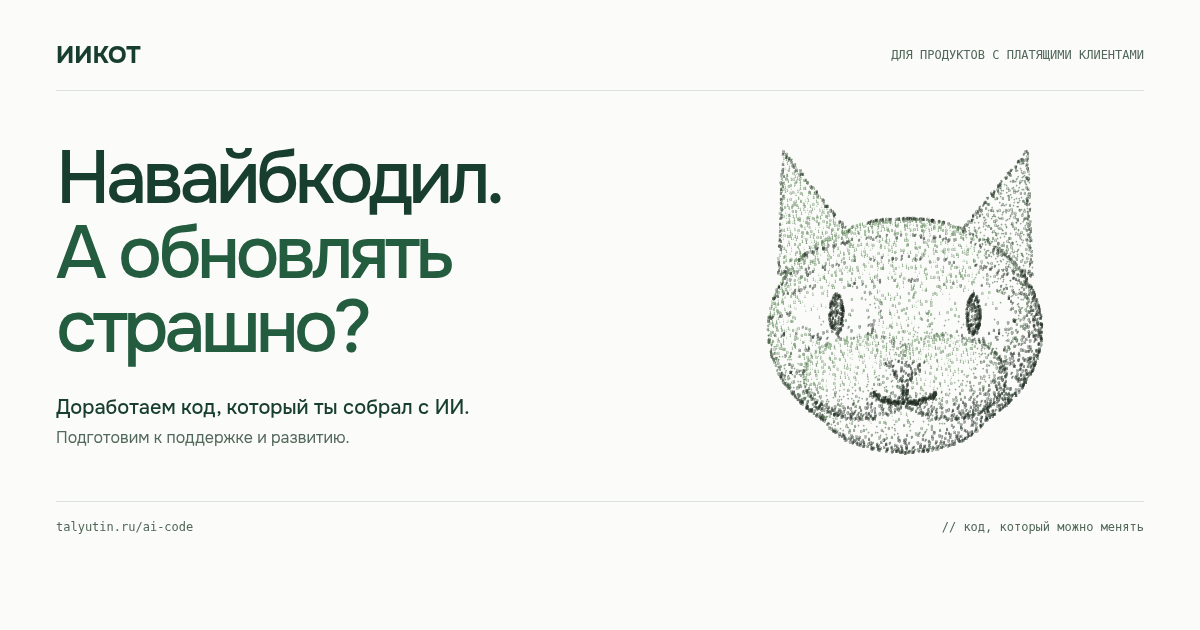
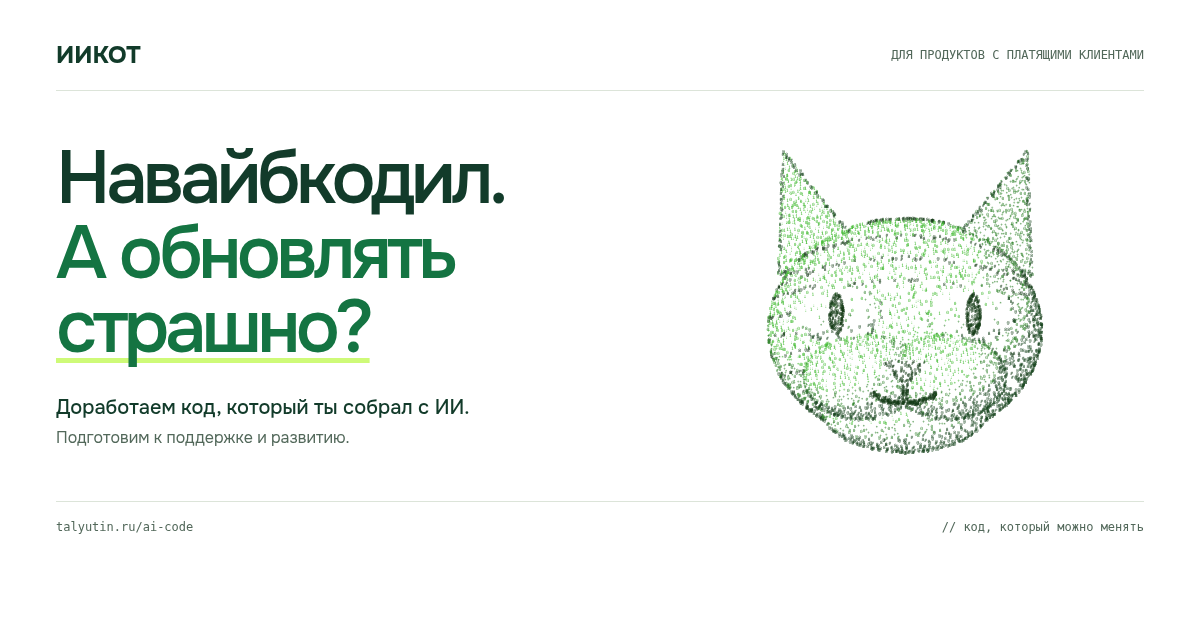
Refine IIKOT accents, spacing and footer composition

diff --git a/ownsite/public/ai-code/styles.css b/ownsite/public/ai-code/styles.css
@@ -7,14 +7,14 @@
 }
 :root {
   color-scheme: light;
-  --paper: #fbfcf9;
+  --paper: #ffffff;
   --white: #fff;
-  --ink: #173e2e;
+  --ink: #123b2a;
   --muted: #52685a;
-  --green: #245c40;
-  --accent: #c1ee84;
-  --line: #dce4d9;
-  --wash: #f0f4ec;
+  --green: #147442;
+  --accent: #cefa78;
+  --line: #d7e6d9;
+  --wash: #eff9e9;
   --gutter: clamp(24px, 5.55vw, 88px);
   --ease: cubic-bezier(.2,.75,.25,1);
   --mono: 'SFMono-Regular', Consolas, 'Liberation Mono', monospace;
@@ -28,10 +28,10 @@ button, summary, a { -webkit-tap-highlight-color: transparent; }
 a:focus-visible, summary:focus-visible { outline: 2px solid var(--green); outline-offset: 6px; }
 a:focus-visible.button { outline-offset: 5px; outline-color: var(--green); }
 h1, h2, h3, p, figure { margin: 0; }
-h1, h2, h3 { font-weight: 500; }
+h1, h2, h3 { font-weight: 550; }
 h1, h2 { letter-spacing: -.06em; text-wrap: balance; }
 p + p { margin-top: 16px; }
-section { position: relative; max-width: 1600px; margin-inline: auto; padding: 100px var(--gutter); border-bottom: 1px solid var(--line); }
+section { position: relative; max-width: 1600px; margin-inline: auto; padding: 88px var(--gutter); border-bottom: 1px solid var(--line); }
 section:not(.hero) { display: grid; grid-template-columns: minmax(140px, 1fr) minmax(0, 4fr); column-gap: 36px; }
 .section-head { display: contents; }
 .eyebrow { font: 500 11px/1.5 var(--mono); letter-spacing: .09em; text-transform: uppercase; color: var(--muted); }
@@ -53,14 +53,15 @@ header { display: flex; align-items: center; justify-content: space-between; gap
 .hero-grid { display: grid; grid-template-columns: minmax(0, 1.55fr) minmax(0, 1fr); gap: 16px; align-items: center; padding-block: 66px 64px; }
 .hero-copy { position: relative; z-index: 2; }
 .hero .eyebrow { display: inline-flex; gap: 9px; align-items: center; font-size: 10px; letter-spacing: .055em; }
-.hero .eyebrow::before { content: ''; width: 5px; height: 5px; background: var(--green); border-radius: 50%; flex-shrink: 0; box-shadow: 0 0 0 4px #245c400a; }
-h1 { font-size: clamp(54px, 6.25vw, 96px); line-height: 1.01; margin: 24px 0 30px; font-weight: 500; }
+.hero .eyebrow::before { content: ''; width: 5px; height: 5px; background: var(--green); border-radius: 50%; flex-shrink: 0; box-shadow: 0 0 0 4px #cefa7850; }
+h1 { font-size: clamp(54px, 6.25vw, 96px); line-height: 1.01; margin: 24px 0 30px; font-weight: 550; }
 .headline-line { display: block; }
 .headline-accent { color: var(--green); }
+.headline-key { text-decoration: underline; text-decoration-color: var(--accent); text-decoration-thickness: .065em; text-underline-offset: .08em; text-decoration-skip-ink: none; }
 .hero-service { max-width: 560px; font-size: clamp(19px, 1.6vw, 24px); font-weight: 500; line-height: 1.4; letter-spacing: -.03em; }
 .hero-result { font-size: 15px; color: var(--muted); margin-top: 6px; margin-bottom: 27px; }
-.button { position: relative; isolation: isolate; display: inline-flex; align-items: center; justify-content: space-between; gap: 40px; min-height: 56px; padding: 15px 22px; border: 1px solid transparent; border-radius: 3px; background: var(--ink); color: var(--white); text-decoration: none; font-size: 14px; font-weight: 500; overflow: hidden; transition: background 220ms, box-shadow 220ms, transform 220ms var(--ease); }
-.button::before { content: ''; position: absolute; z-index: -1; inset: 0; background: #2c6445; transform: translateY(105%); transition: transform 320ms var(--ease); }
+.button { position: relative; isolation: isolate; display: inline-flex; align-items: center; justify-content: space-between; gap: 40px; min-height: 56px; padding: 15px 22px; border: 1px solid transparent; border-radius: 5px; background: var(--ink); color: var(--white); text-decoration: none; font-size: 14px; font-weight: 500; overflow: hidden; transition: background 220ms, box-shadow 220ms, transform 220ms var(--ease); }
+.button::before { content: ''; position: absolute; z-index: -1; inset: 0; background: #196c43; transform: translateY(105%); transition: transform 320ms var(--ease); }
 .button:hover::before { transform: translateY(0); }
 .button:hover { box-shadow: 0 5px 12px #173e2e12; }
 .button:active { transform: translateY(1px); box-shadow: none; }
@@ -71,18 +72,18 @@ a:hover > .arrow { transform: translate(2px,-2px); }
 .hint { font-size: 14px; line-height: 1.6; color: var(--muted); margin-top: 10px; }
 .cat-stage { position: relative; align-self: center; margin: 0 -12px 0 0; padding: 8px; }
 .cat-frame { position: absolute; inset: 0; pointer-events: none; }
-.frame-corner { position: absolute; width: 14px; height: 14px; color: #b9cbb7; }
+.frame-corner { position: absolute; width: 14px; height: 14px; color: #7cae7c; }
 .frame-corner:nth-child(1) { left: 0; top: 0; border-left: 1px solid; border-top: 1px solid; }
 .frame-corner:nth-child(2) { right: 0; top: 0; border-right: 1px solid; border-top: 1px solid; }
 .frame-corner:nth-child(3) { left: 0; bottom: 0; border-left: 1px solid; border-bottom: 1px solid; }
 .frame-corner:nth-child(4) { right: 0; bottom: 0; border-right: 1px solid; border-bottom: 1px solid; }
-.axis { position: absolute; width: 8px; height: 8px; color: #b9cbb7; }
+.axis { position: absolute; width: 8px; height: 8px; color: #7cae7c; }
 .axis::before, .axis::after { content: ''; background: currentColor; position: absolute; }
 .axis::before { width: 8px; height: 1px; top: 3px; }
 .axis::after { width: 1px; height: 8px; left: 3px; }
 .axis-x { top: calc(50% - 4px); left: 0; }
 .axis-y { top: calc(50% - 4px); right: 0; }
-#cat { position: relative; width: 100%; aspect-ratio: 640/590; filter: saturate(.24) brightness(.77); }
+#cat { position: relative; width: 100%; aspect-ratio: 640/590; filter: saturate(.68) brightness(.9); }
 #cat svg { display: block; width: 100%; height: auto; }
 #cat .cat-volume { position: absolute; inset: 0; width: 100%; height: 100%; pointer-events: none; }
 #cat.volume-ready > svg { visibility: hidden; }
@@ -97,9 +98,9 @@ figcaption { font: 10px/1.6 var(--mono); color: var(--muted); text-align: center
 details { position: relative; }
 summary { position: relative; cursor: pointer; list-style: none; }
 summary::-webkit-details-marker { display: none; }
-.case-card { border: 1px solid var(--line); border-radius: 4px; background: var(--wash); transition: background 250ms, border-color 250ms, box-shadow 300ms; }
-.case-card:hover { border-color: #acc3a7; background: #eaf0e4; box-shadow: 0 8px 26px -16px #173e2e26; }
-.case-card[open] { border-color: #9bb497; background: #eef3e9; }
+.case-card { border: 1px solid var(--line); border-radius: 6px; background: var(--wash); transition: background 250ms, border-color 250ms, box-shadow 300ms; }
+.case-card:hover { border-color: #8cba85; background: #e4f5d9; box-shadow: 0 8px 26px -16px #173e2e26; }
+.case-card[open] { border-color: #79aa73; background: #e8f7de; }
 .case-card summary { display: flex; flex-direction: column; align-items: flex-start; min-height: 276px; padding: 26px; gap: 14px; }
 .case-index { color: var(--muted); font: 11px/1.4 var(--mono); margin-bottom: 18px; }
 .case-card strong { font-size: clamp(20px, 1.65vw, 25px); font-weight: 500; line-height: 1.25; letter-spacing: -.035em; }
@@ -120,13 +121,14 @@ details[open] .plus::after { transform: rotate(0); }
 .steps { padding: 0; margin: 0 0 36px; list-style: none; counter-reset: step; display: grid; grid-template-columns: repeat(3,minmax(0,1fr)); gap: 24px; }
 .steps li { position: relative; counter-increment: step; padding-top: 19px; border-top: 1px solid var(--line); font-size: 16px; line-height: 1.6; }
 .steps li::before { content: '0' counter(step); display: block; color: var(--muted); font: 11px var(--mono); margin-bottom: 30px; }
-.steps li::after { content: ''; position: absolute; left: 0; top: -1px; height: 1px; width: 30px; background: var(--green); }
+.steps li::after { content: ''; position: absolute; left: 0; top: -1px; height: 1px; width: 44px; background: var(--green); }
 .steps b { display: inline-block; font-size: 18px; font-weight: 500; letter-spacing: -.025em; line-height: 1.35; margin-bottom: 10px; }
 #process .section-body > p { font-size: 16px; color: var(--muted); max-width: 600px; }
 #process .button { margin-top: 26px; }
 .team-grid { display: grid; grid-template-columns: repeat(2,minmax(0,1fr)); gap: 40px; }
 .team-grid article { padding: 24px 0; border-top: 1px solid var(--line); }
 .number { display: flex; align-items: baseline; gap: 10px; font-size: clamp(56px,5vw,72px); font-weight: 400; letter-spacing: -.07em; line-height: 1; margin-bottom: 34px; }
+.number { color: var(--green); }
 .number small { color: var(--muted); font: 11px var(--mono); letter-spacing: 0; }
 h3 { font-size: 23px; letter-spacing: -.04em; margin-bottom: 10px; }
 .team-grid p { font-size: 16px; color: var(--muted); max-width: 34ch; }
@@ -140,7 +142,7 @@ h3 { font-size: 23px; letter-spacing: -.04em; margin-bottom: 10px; }
 .request-grid > div { display: flex; flex-direction: column; align-items: flex-start; }
 .request-grid p:not(.hint) { color: #b1c5b4; font-size: 14px; max-width: 370px; order: 2; margin-top: 26px; }
 #request .button { background: var(--accent); color: var(--ink); font-size: 15px; min-height: 64px; min-width: 300px; padding-inline: 24px; }
-#request .button::before { background: #d2f5a7; }
+#request .button::before { background: #ddffa2; }
 #request .hint { order: 3; max-width: 380px; margin-top: 8px; }
 #request .button:focus-visible { outline-color: var(--accent); }
 #request a:focus-visible { outline-color: var(--accent); }
@@ -209,7 +211,8 @@ h3 { font-size: 23px; letter-spacing: -.04em; margin-bottom: 10px; }
   .team-grid article { padding-top: 20px; padding-bottom: 0; display: grid; grid-template-columns: 70px minmax(0,1fr); gap: 0 18px; }
   .team-grid h3, .team-grid p { grid-column: 2; }
   .number { font-size: 52px; margin: 0; flex-direction: column; gap: 8px; grid-row: 1 / 3; }
-  .number small { font-size: 9px; }
+  .number { color: var(--green); }
+.number small { font-size: 9px; }
   h3 { font-size: 19px; line-height: 1.2; }
   .team-grid p { font-size: 16px; }
   .section-body > details > summary { font-size: 16px; min-height: 60px; }
@@ -229,4 +232,24 @@ h3 { font-size: 23px; letter-spacing: -.04em; margin-bottom: 10px; }
 }
 @media (forced-colors: active) { .button { border: 1px solid ButtonText; } .arrow, .plus { forced-color-adjust: auto; } }
 
-.site-footer{display:block}.footer-links{display:flex;justify-content:space-between;align-items:center;gap:24px}.footer-legal{margin-top:24px;padding-top:24px;border-top:1px solid #ffffff24;font:400 14px/1.6 Onest,Arial,sans-serif;color:#c1d1c2}.footer-legal dl{display:flex;flex-wrap:wrap;gap:8px 32px;margin:8px 0 0}.footer-legal dl>div{display:flex;gap:8px}.footer-legal dt{color:#a9bfad}.footer-legal dd{margin:0;font-variant-numeric:tabular-nums}@media(max-width:700px){.footer-legal dl{flex-direction:column;gap:6px}.footer-legal{font-size:14px}}
+/* Footer is a continuation of the contact screen, with quiet legal details. */
+.site-footer { display: block; padding-block: 28px; }
+.footer-links { display: flex; justify-content: space-between; align-items: center; gap: 24px; }
+.footer-brand { color: var(--accent); font-size: 14px; font-weight: 600; }
+.footer-legal { display: flex; justify-content: space-between; align-items: baseline; gap: 16px 32px; margin-top: 24px; padding-top: 22px; border-top: 1px solid #ffffff24; font: 400 14px/1.6 Onest,Arial,sans-serif; color: #c1d1c2; }
+.footer-legal dl { display: flex; flex-wrap: wrap; gap: 8px 28px; margin: 0; }
+.footer-legal dl > div { display: flex; gap: 8px; }
+.footer-legal dt { color: #a9bfad; }
+.footer-legal dd { margin: 0; font-variant-numeric: tabular-nums; }
+@media (max-width:1000px) { .footer-legal { flex-direction: column; gap: 8px; } }
+@media (max-width:700px) { .footer-legal dl { flex-direction: column; gap: 6px; } }
+
+.button > .arrow { color: var(--accent); }
+#request .button > .arrow { color: var(--ink); }
+.case-action > .arrow { border-radius: 50%; box-shadow: 0 0 0 8px var(--accent); background: var(--accent); }
+.section-body > details > summary:hover .plus { background: var(--accent); border-color: var(--accent); }
+@media (hover:hover) and (prefers-reduced-motion:no-preference) {
+  .case-card { transition: background 240ms, border-color 240ms, box-shadow 240ms, transform 240ms var(--ease); }
+  .case-card:hover { transform: translateY(-3px); }
+}
+@media (max-width:700px) { .case-action > .arrow { box-shadow: 0 0 0 5px var(--accent); } }

diff --git a/ownsite/public/ai-code/index.html b/ownsite/public/ai-code/index.html
@@ -49,7 +49,7 @@
 <p class="eyebrow">Для продуктов с платящими клиентами</p>
 <h1 id="hero-title" data-glyph>
 <span class="headline-line">Навайбкодил.</span>
-<span class="headline-line headline-accent">А обновлять<br class="desktop-break"> страшно?</span>
+<span class="headline-line headline-accent">А обновлять<br class="desktop-break"> <span class="headline-key">страшно?</span></span>
 </h1>
 <p class="hero-service">Доработаем код, который ты собрал с ИИ.</p>
 <p class="hero-result">Подготовим к поддержке и развитию.</p>
